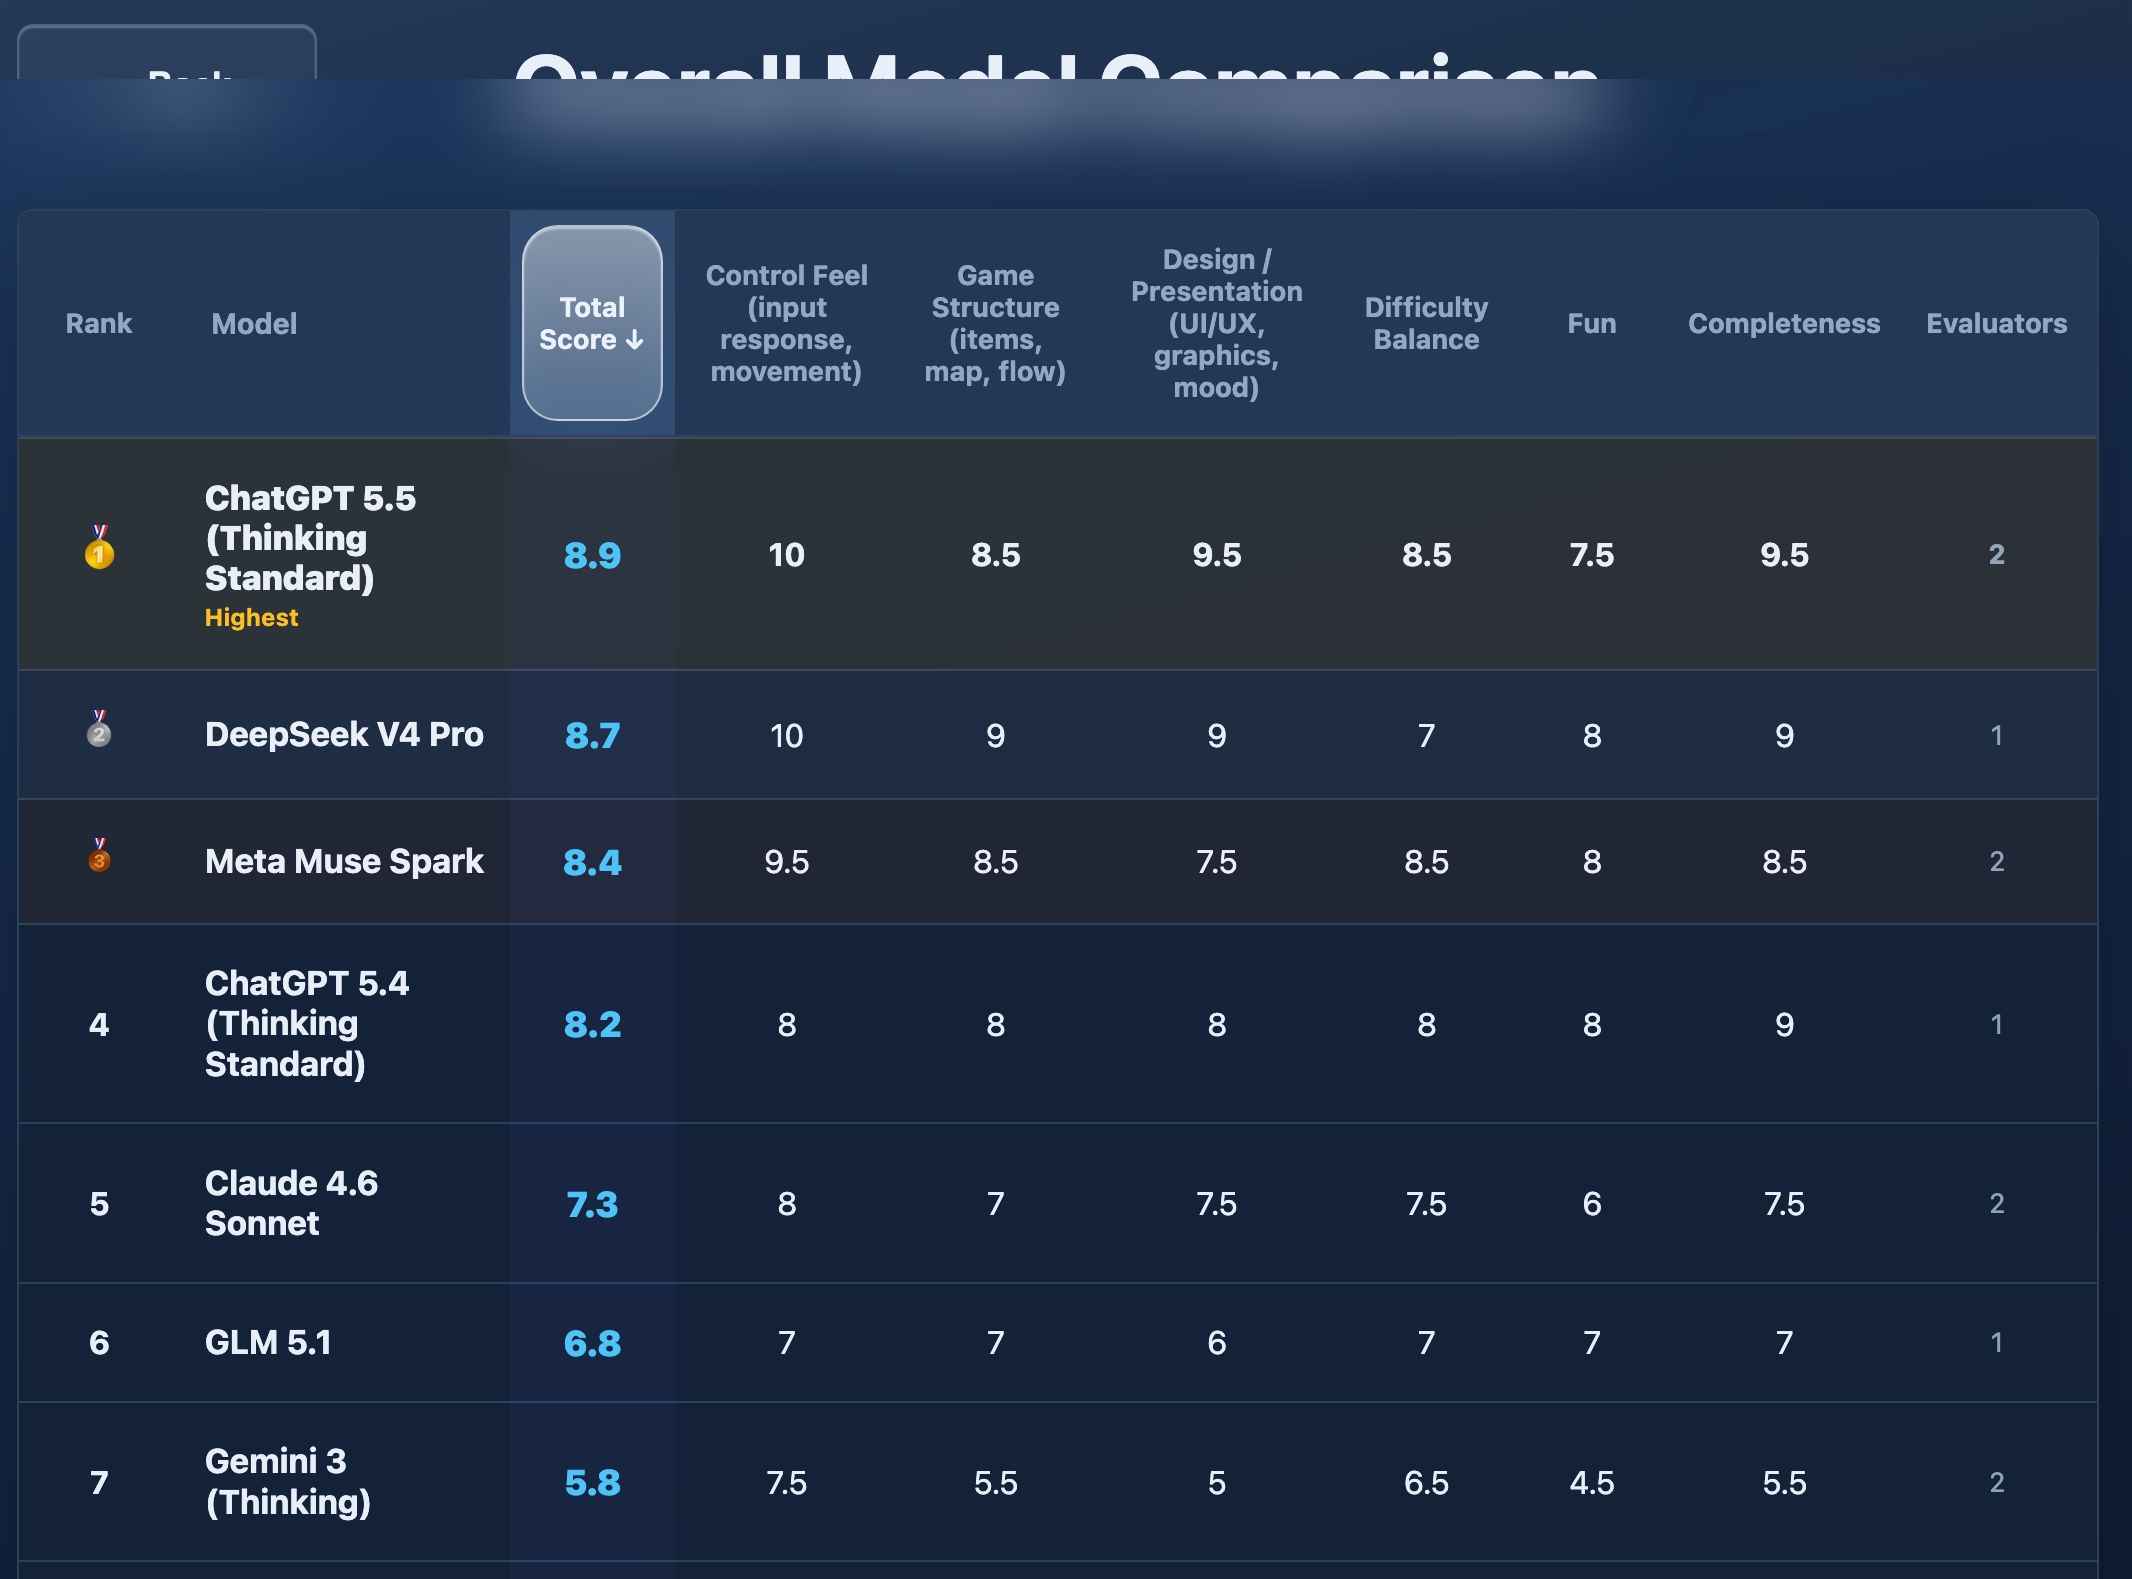
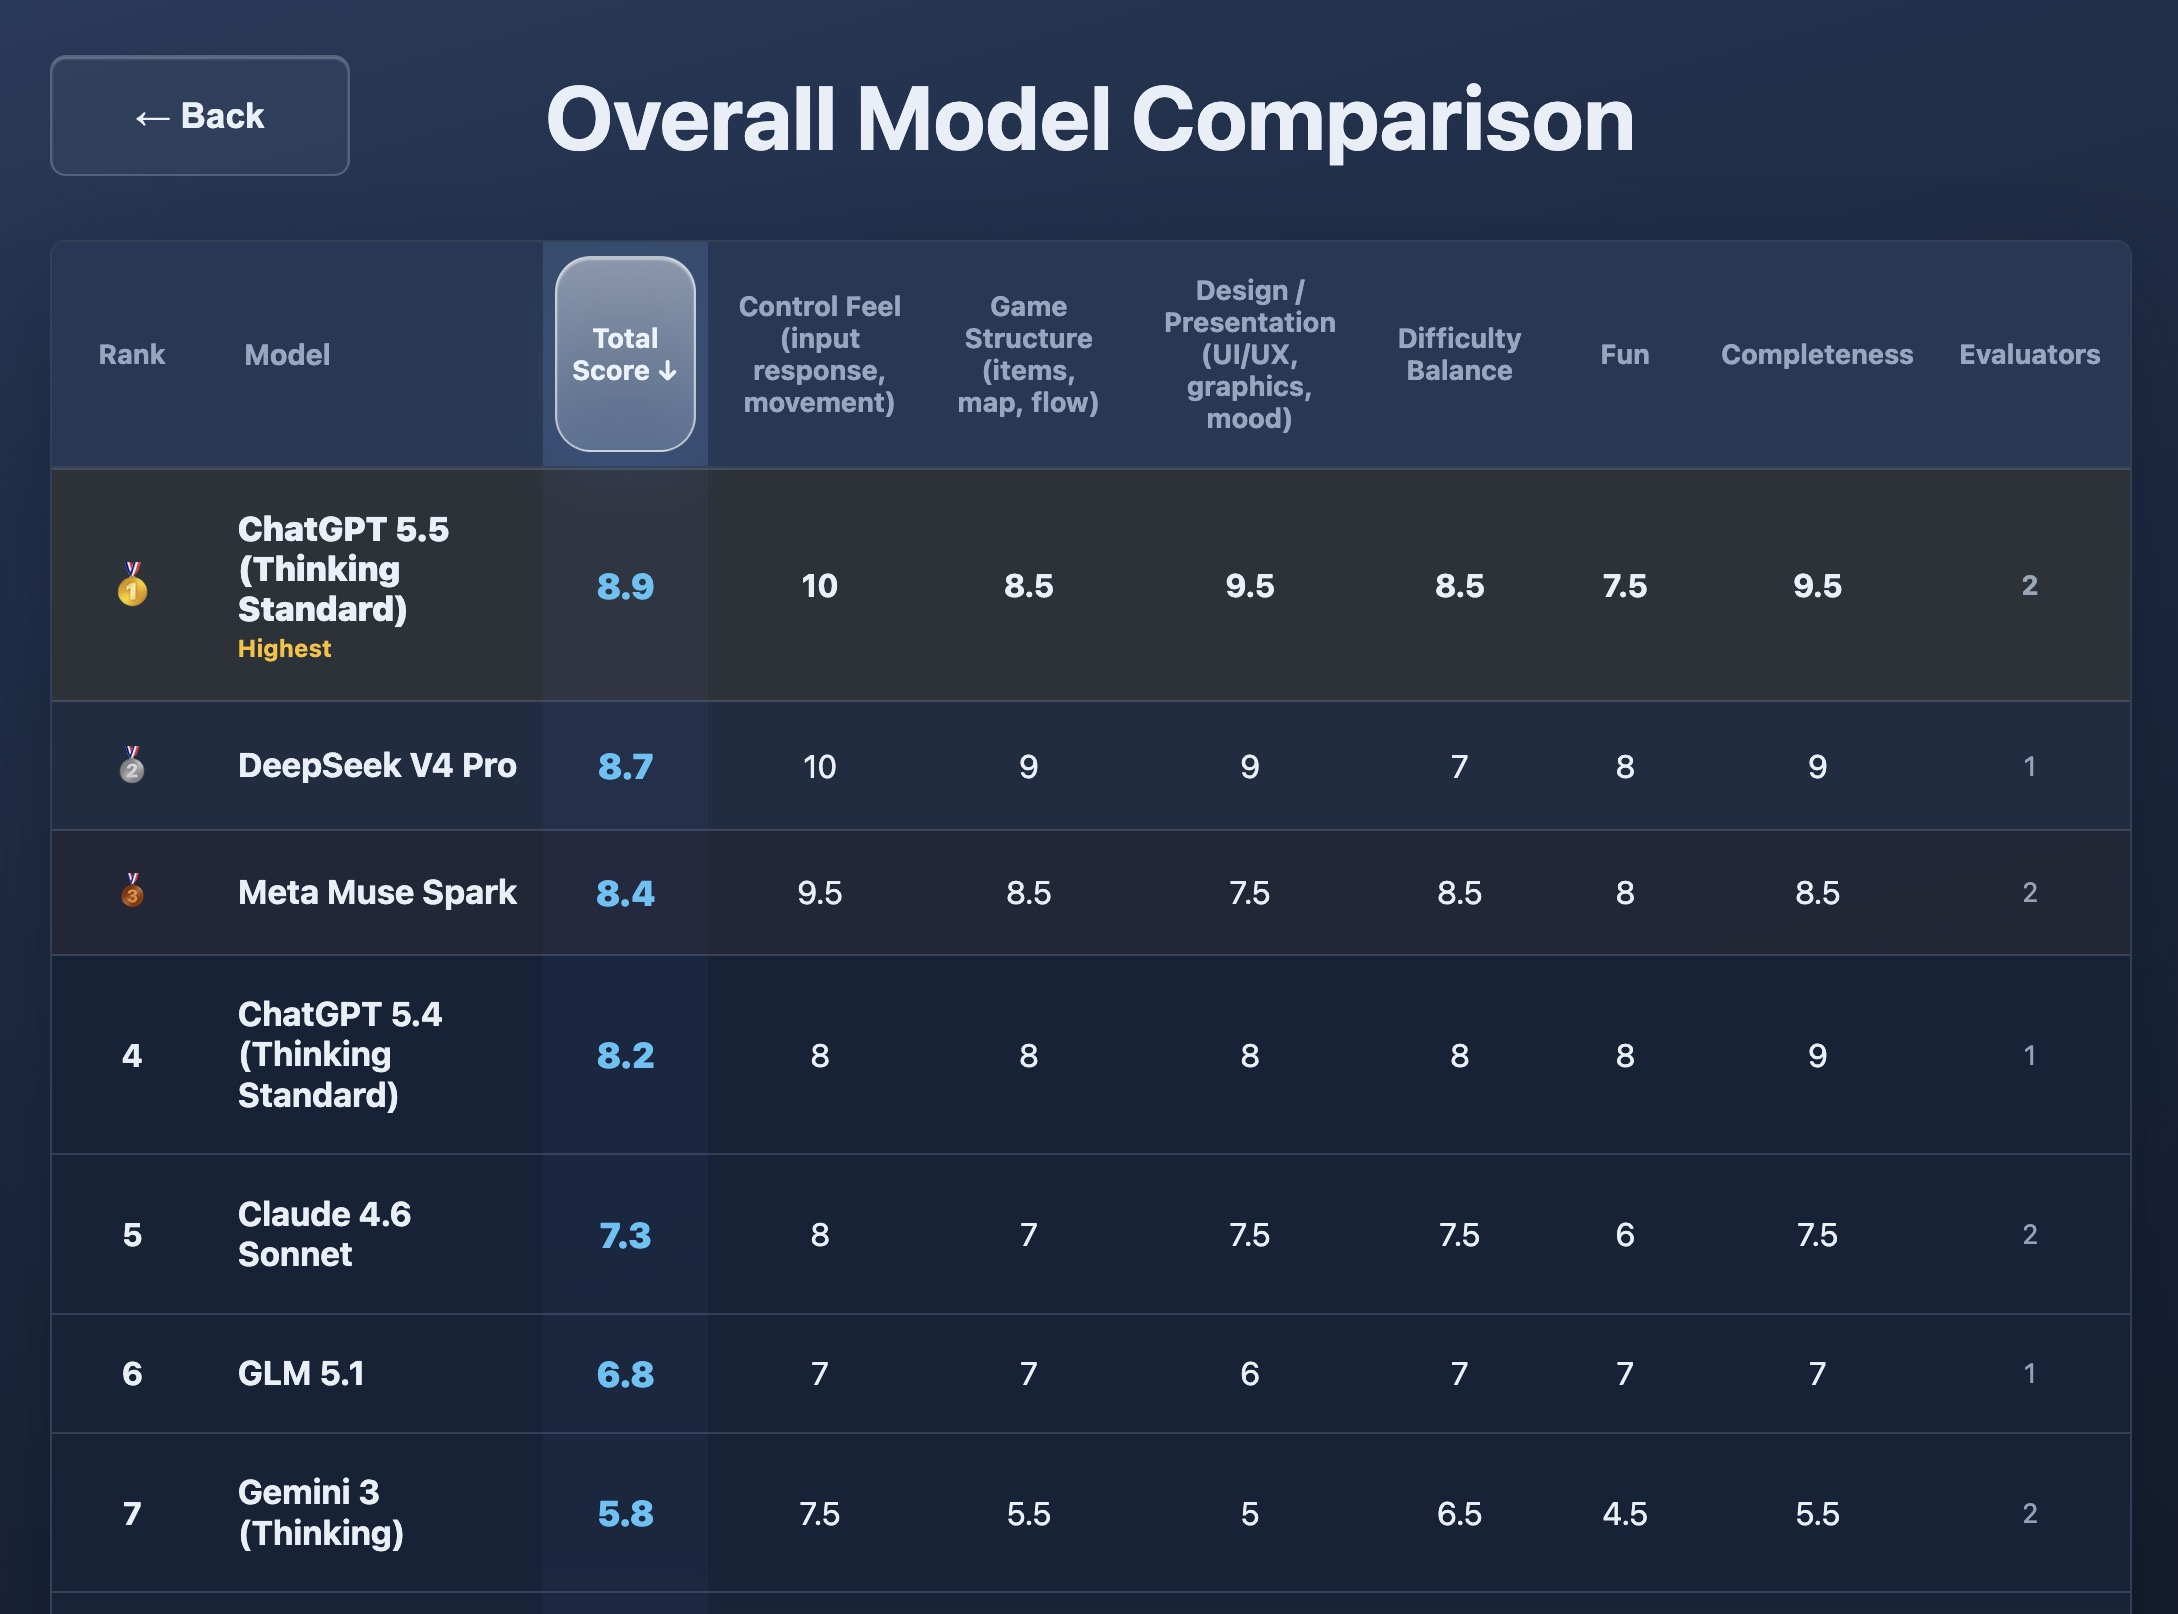
README 공개 정보 정리

diff --git a/README.md b/README.md
@@ -11,7 +11,6 @@
 **VeilPlays**는 동일한 프롬프트로 여러 AI 모델이 제작한 게임을 직접 플레이하고, 블라인드 방식으로 비교 평가하는 **게임 기반 AI 모델 성능 비교·벤치마크 서비스**입니다.
 
 - Service: [https://www.veilplays.com](https://www.veilplays.com)
-- API health check: [https://api.veilplays.com/healthz](https://api.veilplays.com/healthz)
 
 ## Overview
 
@@ -80,7 +79,6 @@
 | Email | Brevo |
 | Hosting | Vercel for static frontend, Render for FastAPI API |
 | Security edge | Cloudflare DNS, SSL, cache rules, rate limiting rules |
-| Analytics and search | Google Analytics, Google Search Console, Naver Search Advisor |
 
 ## Architecture
 
@@ -170,15 +168,6 @@ node scripts/verify-deployment-prep.mjs
 
 ## Security Notes
 
-- Server-side data access is handled through the FastAPI backend.
-- Supabase RLS is enabled with deny-by-default policies for direct anonymous/authenticated access.
-- Firebase ID tokens are verified server-side before account, evaluation, and admin actions.
-- Admin APIs require configured super-admin Firebase UIDs.
-- Cloudflare rate limiting is used for sensitive auth mail and recovery endpoints.
-- Static frontend is served with security headers through Vercel configuration.
-
-## Repository Rules
-
-- `docs/`는 로컬 작업 자료 전용이다. `.gitignore`에서 제거하지 말고, `docs/` 하위 파일에 대한 예외를 만들지 말고, `docs/` 안의 어떤 파일도 GitHub에 강제로 추가하지 않는다.
-- 커밋 메시지는 반드시 한국어로 작성한다.
-- 바로 푸시하지 않는 작업도 셧다운 대비와 버전 관리를 위해 Git 커밋으로 기록한다.
+- Account, evaluation, comment, and admin actions are verified and processed server-side.
+- User-generated comments and replies can be moderated through administrator tools.
+- Secrets, environment values, and internal operation notes are not included in this repository README.